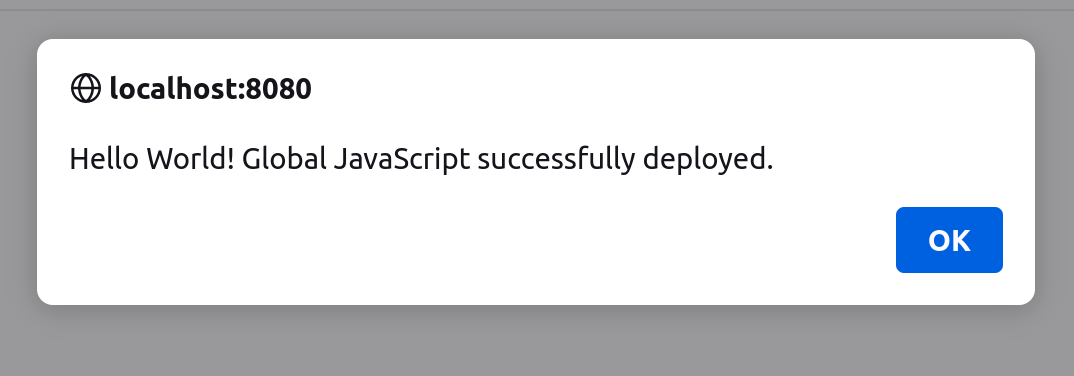
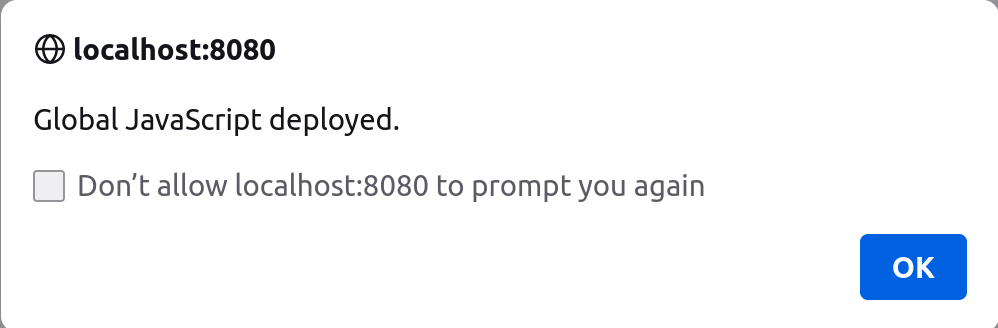
LRDOCS-11074 Remove unnecessary change to popup alert

diff --git a/docs/dxp/latest/en/building-applications/client-extensions/browser-based-client-extensions/developer-guide/creating-your-first-global-javascript-client-extension.md b/docs/dxp/latest/en/building-applications/client-extensions/browser-based-client-extensions/developer-guide/creating-your-first-global-javascript-client-extension.md
@@ -54,7 +54,7 @@ The Blade CLI tool creates a subfolder with your chosen name within `client-exte
 
 Now you have a basic client extension to work with. Next, let's look at what this client extension does and how to adjust its behavior.
 
-## Modify and Deploy the Client Extension
+## Examine and Deploy the Client Extension
 
 By default, the `src/global.js` file contains this line of code:
 
@@ -62,15 +62,9 @@ By default, the `src/global.js` file contains this line of code:
 window.alert('Global JavaScript deployed.');
 ```
 
-This causes a popup window to appear when you open the page with the given message.
+This causes a popup window to appear when you open the page with the given message. Add any additional JavaScript you want to run to this file.
 
-Open up the `global.js` file and modify the message to one of your own, like this:
-
-```js
-window.alert('Hello World! Global JavaScript successfully deployed.');
-```
-
-Once you are satisfied with your changes to the JS code, deploy your client extension to your Liferay testing instance. If you are running Liferay from a Docker container, run this command from your client extension's root folder:
+Then, deploy your client extension to your Liferay testing instance. If you are running Liferay from a Docker container, run this command from your client extension's root folder:
 
 ```bash
 blade gw deploy -Ddeploy.docker.container.id=$(docker ps -lq)
